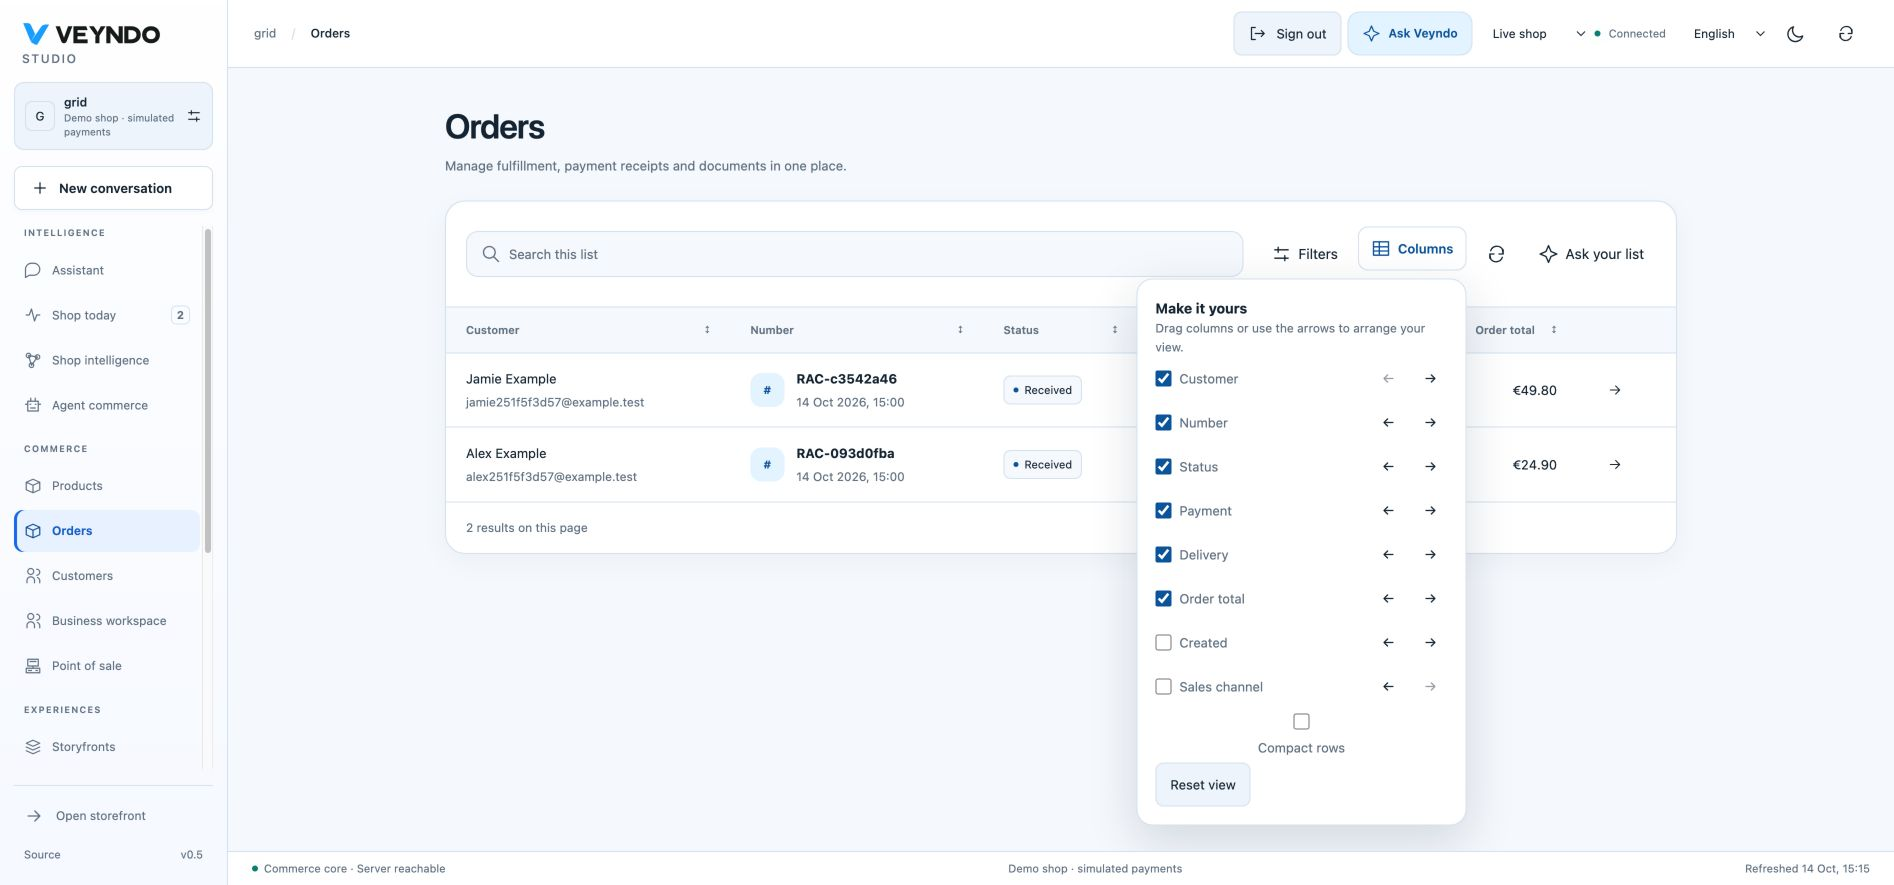
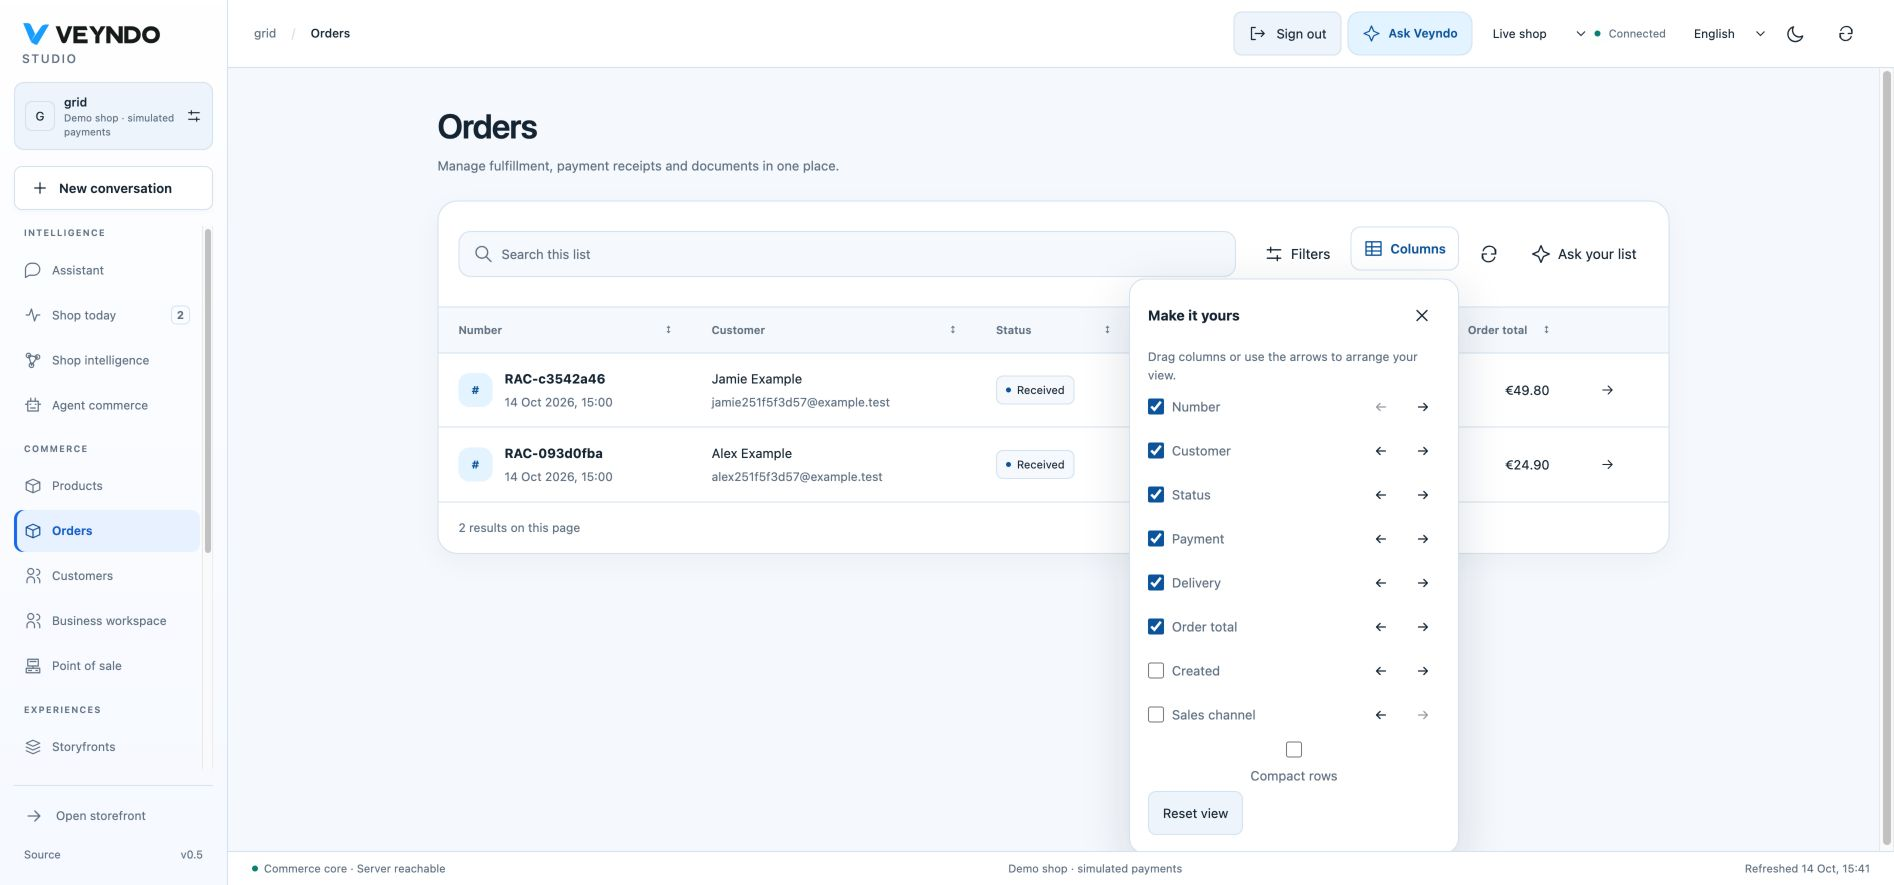
Polish grid controls and document verified native workflows

diff --git a/frontend/tests/unit/agentic-grid.test.tsx b/frontend/tests/unit/agentic-grid.test.tsx
@@ -4,6 +4,7 @@ import { render, screen, waitFor, fireEvent } from "@testing-library/react";
 import userEvent from "@testing-library/user-event";
 import { beforeEach, expect, it, vi } from "vitest";
 import AgenticGrid from "../../src/shared/grid/AgenticGrid";
+import CustomerDirectory from "../../src/admin/customers/CustomerDirectory";
 import { useGridPage } from "../../src/shared/grid/useGridPage";
 import { LocaleProvider } from "../../src/shared/i18n/i18n";
 import type { GridCriteria } from "../../src/shared/grid/types";
@@ -81,6 +82,24 @@ it("supports drag headers without changing search criteria", () => {
   expect(screen.getAllByRole("columnheader")[0]).toHaveTextContent("Number");
   expect(screen.getByTestId("criteria")).toHaveTextContent("{}");
 });
+it("closes column controls explicitly, on Escape and outside without hiding a column", async () => {
+  const user = userEvent.setup();
+  render(<Demo />, { wrapper: LocaleProvider });
+  const trigger = screen.getByText("Columns", { selector: "summary" });
+  const menu = trigger.closest("details")!;
+  await user.click(trigger);
+  expect(menu.open).toBe(true);
+  await user.click(screen.getByRole("button", { name: "Close columns" }));
+  expect(menu.open).toBe(false);
+  expect(trigger).toHaveFocus();
+  await user.click(trigger);
+  await user.keyboard("{Escape}");
+  expect(menu.open).toBe(false);
+  await user.click(trigger);
+  await user.click(screen.getByTestId("criteria"));
+  expect(menu.open).toBe(false);
+  expect(screen.getAllByRole("columnheader")).toHaveLength(2);
+});
 it("reviews planner filters before applying and rejects identity fields", async () => {
   const user = userEvent.setup();
   const request = vi
@@ -114,6 +133,22 @@ it("reviews planner filters before applying and rejects identity fields", async 
 it("does not offer AI without its current right", () => {
   render(<Demo enabled={false} />, { wrapper: LocaleProvider });
   expect(screen.queryByRole("button", { name: "Ask your list" })).toBeNull();
+});
+it("renders the customer group with the native translated vocabulary", async () => {
+  const request = vi.fn().mockResolvedValue({ elements: [] });
+  render(
+    <CustomerDirectory
+      request={request}
+      groups={[]}
+      groupName={(id) => id}
+      onOpen={vi.fn()}
+    />,
+    { wrapper: LocaleProvider },
+  );
+  expect(
+    screen.getByRole("columnheader", { name: "Customer group" }),
+  ).toBeVisible();
+  await waitFor(() => expect(request).toHaveBeenCalled());
 });
 it("clears rows on errors and ignores a superseded response", async () => {
   let resolveOld: (v: any) => void = () => {};

diff --git a/frontend/src/shared/grid/GridColumns.tsx b/frontend/src/shared/grid/GridColumns.tsx
@@ -1,4 +1,5 @@
 /** Accessible column ordering/visibility controls provide keyboard and touch alternatives to drag headers. */
+import { useRef, useEffect } from "react";
 import Icon from "../ui/Icon";
 import { useGridText } from "./grid-i18n";
 import { moveColumn, type GridLayout } from "./preferences";
@@ -14,14 +15,47 @@ export default function GridColumns({
   onReset: () => void;
 }) {
   const { g } = useGridText();
+  const ref = useRef<HTMLDetailsElement>(null);
+  const close = (focus = false) => {
+    if (ref.current) {
+      ref.current.open = false;
+      if (focus) ref.current.querySelector("summary")?.focus();
+    }
+  };
+  useEffect(() => {
+    const outside = (e: PointerEvent) => {
+      if (ref.current?.open && !ref.current.contains(e.target as Node)) close();
+    };
+    document.addEventListener("pointerdown", outside);
+    return () => document.removeEventListener("pointerdown", outside);
+  }, []);
+
   return (
-    <details className="agent-grid-column-menu">
+    <details
+      ref={ref}
+      className="agent-grid-column-menu"
+      onKeyDown={(e) => {
+        if (e.key === "Escape") {
+          e.stopPropagation();
+          close(true);
+        }
+      }}
+    >
       <summary>
         <Icon name="table" />
         {g("columns")}
       </summary>
       <div className="agent-grid-column-panel">
-        <strong>{g("customize")}</strong>
+        <div className="agent-grid-popover-heading">
+          <strong>{g("customize")}</strong>
+          <button
+            type="button"
+            aria-label={g("closeColumns")}
+            onClick={() => close(true)}
+          >
+            <Icon name="close" />
+          </button>
+        </div>
         <p>{g("columnsHint")}</p>
         {layout.order.map((id, i) => {
           const column = columns.find((c) => c.id === id);

diff --git a/frontend/src/admin/customers/CustomerDirectory.tsx b/frontend/src/admin/customers/CustomerDirectory.tsx
@@ -5,7 +5,6 @@ import { useGridPage } from "../../shared/grid/useGridPage";
 import { useGridAccess } from "../../shared/grid/useGridAccess";
 import { useGridText } from "../../shared/grid/grid-i18n";
 import { useOperationsText } from "../../shared/i18n/operations-i18n";
-import { useCustomerText } from "../../shared/i18n/customer-i18n";
 import type { RequestFn } from "../shell/studio-types";
 export default function CustomerDirectory({
   request,
@@ -21,7 +20,6 @@ export default function CustomerDirectory({
   onOpen: (email: string) => void;
 }) {
   const { o } = useOperationsText(),
-    { c } = useCustomerText(),
     { g, locale } = useGridText();
   const page = useGridPage(request, "/api/merchant/customers", {}, queryState),
     rights = useGridAccess(request);
@@ -59,7 +57,7 @@ export default function CustomerDirectory({
         },
         {
           key: "group",
-          label: c("customerGroup"),
+          label: o("group"),
           options: groups.map((g) => ({ value: g.id, label: groupName(g.id) })),
         },
       ]}
@@ -100,7 +98,7 @@ export default function CustomerDirectory({
         },
         {
           id: "group",
-          label: c("customerGroup"),
+          label: o("group"),
           render: (r) => (
             <span className="agent-grid-tag">
               {r.guest ? g("guest") : groupName(r.customerGroup)}

diff --git a/frontend/src/shared/grid/GridAgent.tsx b/frontend/src/shared/grid/GridAgent.tsx
@@ -21,6 +21,7 @@ export default function GridAgent({
     [error, setError] = useState("");
   const [plan, setPlan] = useState<GridCriteria | null>(null);
   const generation = useRef(0);
+  const host = useRef<HTMLDivElement>(null);
   useEffect(
     () => () => {
       generation.current++;
@@ -34,9 +35,17 @@ export default function GridAgent({
     setPlan(null);
     setError("");
   };
+  useEffect(() => {
+    if (!open) return;
+    const outside = (e: PointerEvent) => {
+      if (host.current && !host.current.contains(e.target as Node)) close();
+    };
+    document.addEventListener("pointerdown", outside);
+    return () => document.removeEventListener("pointerdown", outside);
+  }, [open]);
   if (!agent.enabled) return null;
   return (
-    <div className="agent-grid-assistant">
+    <div ref={host} className="agent-grid-assistant">
       <button
         type="button"
         className="agent-grid-ask"
@@ -56,6 +65,12 @@ export default function GridAgent({
             }
           }}
         >
+          <div className="agent-grid-popover-heading">
+            <strong>{g("agent")}</strong>
+            <button type="button" aria-label={g("cancel")} onClick={close}>
+              <Icon name="close" />
+            </button>
+          </div>
           <form
             onSubmit={async (e) => {
               e.preventDefault();

diff --git a/frontend/src/shared/grid/grid-controls.css b/frontend/src/shared/grid/grid-controls.css
@@ -181,3 +181,21 @@
     min-height: 44px;
   }
 }
+
+.agent-grid-popover-heading {
+  display: flex;
+  align-items: center;
+  justify-content: space-between;
+  gap: 12px;
+  margin-bottom: 14px;
+}
+.agent-grid-popover-heading button {
+  display: grid;
+  place-items: center;
+  min-width: 36px;
+  min-height: 36px;
+  border: 1px solid var(--grid-line);
+  border-radius: 9px;
+  background: var(--surface);
+  color: inherit;
+}

diff --git a/frontend/src/shared/grid/grid-i18n.ts b/frontend/src/shared/grid/grid-i18n.ts
@@ -1,6 +1,12 @@
 /** Typed four-language shared grid vocabulary; commerce content keeps its existing inheritance contract. */
 import { useLocale } from "../i18n/i18n";
 const words = {
+  closeColumns: [
+    "Close columns",
+    "Spalten schließen",
+    "Fermer les colonnes",
+    "Cerrar columnas",
+  ],
   countOne: [
     "1 result on this page",
     "1 Ergebnis auf dieser Seite",

diff --git a/src/operations/grid_schema.rs b/src/operations/grid_schema.rs
@@ -109,6 +109,7 @@ mod tests {
         );
         assert!(validate("customers", &json!({"guest":true})).is_ok());
         assert!(validate("products", &json!({"active":true,"lowStock":true})).is_ok());
+        assert!(validate("products", &json!({"lowStock":false})).is_err());
         assert!(validate("customers", &json!({"state":"placed"})).is_err());
         assert!(validate("orders", &json!({"from":"not-a-date"})).is_err());
     }

diff --git a/docs/agentic-grids.md b/docs/agentic-grids.md
@@ -4,6 +4,8 @@ Orders, products and customers now share one grid instead of separate fixed list
 People and agents use the same native filter/sort contract. The grid never owns
 prices, customer identity, order states or a second database.
 
+![Actual shared order grid in English with synthetic checkout-created orders](assets/agentic-grid/orders-en.png)
+
 ## Use the list
 
 1. Open **Orders**, **Products** or **Customers** in Studio. Search runs on the
@@ -25,6 +27,8 @@ Column layout/density is a device preference scoped by origin/shop/sandbox and
 list ID. It contains column IDs only, not records, credentials, business configuration
 or release units. This is deliberately distinct from entity history and staging.
 
+![Column visibility, ordering arrows, compact rows and explicit close control](assets/agentic-grid/columns-en.png)
+
 ## Ask your list
 
 With `assistant.use` and the list's current domain rights, open **Ask your list**:
@@ -42,6 +46,12 @@ The model returns typed filter suggestions. Studio shows them for review and
 **Apply filters** issues an ordinary native list read. Unsupported constraints must
 be reported instead of silently dropped. Invalid fields/types/dates/sort keys are
 rejected. Provider failure leaves manual search/filtering available.
+
+![A read-only customer filter is reviewed before applying it to the order list](assets/agentic-grid/ai-preview-en.png)
+
+These are real browser captures using synthetic records and a loopback model
+fixture. They demonstrate the UI, native API and review path; they do not measure
+the semantic quality of a live AI provider. [Capture provenance](assets/agentic-grid/README.md).
 
 The customer filter matches text in the immutable order customer snapshot (name/email)
 and legacy contact fields; it does not claim to disambiguate people with identical
@@ -99,6 +109,17 @@ Domain directories supply columns, allowed filters, existing request functions a
 native navigation. New entity directories must reuse it rather than copying a list.
 Bundled controls are translated into EN/DE/FR/ES. Merchant content and app labels keep
 their existing main-language inheritance.
+
+![Product category filtering in the same grid](assets/agentic-grid/products-en.png)
+
+![Customer directory using the same controls and translated group labels](assets/agentic-grid/customers-en.png)
+
+The table scrolls inside its container on narrow screens; it does not expand the
+whole page. Column ordering has keyboard and touch controls, and popovers support
+an explicit close action, Escape and outside clicks. Compare the actual
+[mobile order list](assets/agentic-grid/orders-mobile-en.png),
+[mobile column controls](assets/agentic-grid/mobile-columns-en.png) and
+[dark appearance](assets/agentic-grid/orders-dark-en.png).
 
 Declarative app table blocks also reuse the column/density/expanded-row shell and
 retain their native inline forms and current app actions. Their existing indexed

diff --git a/docs/testing.md b/docs/testing.md
@@ -2,6 +2,35 @@
 
 **Studio setup and access:** [Channel wizard fixes, reusable roles, current grants, central B2B configuration and guided company creation](studio-access-and-setup.md).
 
+## Agentic directory grids — 14 October 2026
+
+[Guide and actual browser captures](agentic-grids.md). The complete local frontend
+run passes **493 tests in 88 files**. V8 coverage measures **64.59% lines, 63.30%
+statements, 57.21% branches and 52.29% functions** across the declared host and
+trusted app scope. These are measured figures, not 100% coverage. All **243 Rust
+unit tests**, format/all-target Clippy, source/route inventory and four-language
+gates pass.
+
+Seven affected real PostgreSQL/HTTP/provider suites pass: `workspace_roles`,
+`merchant_operations`, `catalog_management`, `customer_accounts`, `grid_directory`,
+`tenant_isolation` and `read_performance`. Grid counterexamples check whole-directory
+filters and sorting, localized product-name order, tuple cursors, SQL-looking text,
+current role/PII denial, foreign tenants/cursors, empty operational staging,
+invalid model fields and provider failure. HTTP and MCP return the same native rows.
+Fixtures create customers/orders through native Store API, use isolated databases
+and a loopback model; no live payment, real customer or paid model call is made.
+
+Chrome acceptance verifies reviewed customer filtering, order detail/return with
+criteria retained, category/customer-group filters, persisted column ordering,
+explicit/keyboard popup close, dark appearance and a 390 × 844 viewport without
+page overflow. App table forms preserve existing actions and use the same layout
+shell. This does not establish arbitrary app full-text/model support or live-model
+semantic quality. The existing **54-policy / 156,657-case** formal gate passes with
+zero mismatches and **155** rejected mutations; the grid's SQL, async code and UI
+are reviewed/tested adapters, not new whole-system proofs.
+The rendered site checks **211 pages**, all **204 Markdown sources** and **5,031
+local links/assets**, including the illustrated guide and capture provenance.
+
 ## System consistency audit — 14 October 2026
 
 [Full findings and boundaries](system-consistency-audit.md). Thirteen selected

diff --git a/CHANGELOG.md b/CHANGELOG.md
@@ -1,14 +1,5 @@
 # Changelog
 
-## System consistency and narrow-role boundaries — 14 October 2026
-
-- Use knowledge scopes for source-document stage diffs/publication, protecting
-  private source changes from catalog-only readers and enabling knowledge-only editors.
-- Align automation import HTTP rights and MCP discovery with native scopes;
-  write-only roles need no unrelated reads and channel roles cannot invoke rule writes.
-- Add real HTTP/MCP/PostgreSQL regressions and an audit separating connected
-  foundations from incomplete history, Storyfront, AI and release scope.
-- Correct outdated group, event, scope, SKU/SEO and shipping documentation.
 ## Shared agentic Studio grids — 14 October 2026
 
 - Replace fixed order/product/customer lists with one configurable grid: draggable
@@ -18,8 +9,18 @@
   HTTP/MCP contract, with current domain/PII rights and replica-wide admission.
 - Reuse the visual shell in declarative app tables, preserving native write forms.
 - Add real isolated Store API/PostgreSQL/model wire regressions and translated controls.
+- Add illustrated usage/ownership documentation, touch-safe popovers, false-valued
+  filter chips and an always-accessible details action when the main column is hidden.
 
+## System consistency and narrow-role boundaries — 14 October 2026
 
+- Use knowledge scopes for source-document stage diffs/publication, protecting
+  private source changes from catalog-only readers and enabling knowledge-only editors.
+- Align automation import HTTP rights and MCP discovery with native scopes;
+  write-only roles need no unrelated reads and channel roles cannot invoke rule writes.
+- Add real HTTP/MCP/PostgreSQL regressions and an audit separating connected
+  foundations from incomplete history, Storyfront, AI and release scope.
+- Correct outdated group, event, scope, SKU/SEO and shipping documentation.
 ## Shopware-blue Veyndo identity — 14 October 2026
 
 - Replace the lime logo/favicon/README artwork with #189EFF and share one blue UI palette.

diff --git a/docs/source-map.md b/docs/source-map.md
@@ -378,7 +378,7 @@ no model or external delivery provider. The exact current source inventory is
 
 | File/group | Responsibility | Regression evidence |
 |---|---|---|
-| `commerce/product_admin.rs`, `product_admin.sql`, `product_channels.rs`, `product_edit.rs`, `product_fields.rs` | Bounded merchant queries, product/variant creation, atomic revision saves, inventory/pricing and category/channel assignments | `catalog_management.py`, `commerce.py`, `merchant_operations.py`, frontend catalog-management tests |
+| `commerce/product_admin.rs`, `product_channels.rs`, `product_edit.rs`, `product_fields.rs` | Bounded merchant queries, product/variant creation, atomic revision saves, inventory/pricing and category/channel assignments | `catalog_management.py`, `commerce.py`, `merchant_operations.py`, frontend catalog-management tests |
 | `categories/{mod,admin,navigation}.rs`, `listing.sql`, migrations 026/027 | Tenant-safe translated tree, navigation roots, membership, nested product listings, indexed search | Rust validation tests; real category/cycle/visibility/locale/channel HTTP tests |
 | `assets/rich_document.rs`, shared `rich-document.tsx`, admin `RichEditor.tsx` | Safe structured WYSIWYG admission and storefront rendering | Rust unsafe-content negatives, actual React renderer tests, browser save/reload |
 | `admin/catalog/{ProductDataView,ProductEditor,ProductPanels,ProductMediaWorkspace,MediaDropzone,AiImageStudio,ProductVariants,RelatedProducts,CategoriesWorkspace}.tsx` | One list/create/detail workspace, gallery/SKU/category workflows | Strict build, architecture constraints, unit tests and real synthetic browser creation |

diff --git a/docs/assets/agentic-grid/README.md b/docs/assets/agentic-grid/README.md
@@ -1,0 +1,26 @@
+# Agentic grid captures
+
+Captured in Chrome on 14 October 2026 from the actual local Veyndo frontend and
+Rust API, using `scripts/grid_directory.py`'s isolated PostgreSQL review fixture.
+All names, email addresses and orders shown are synthetic; no merchant password,
+session token or real customer information is present.
+
+The order records were created through Store API checkout. The AI preview uses a
+loopback model fixture behind the real central model adapter and Rust planning
+route, not a live paid provider. Screenshots are not a performance measurement or
+a claim that every natural-language request is understood by a particular model.
+
+| File | Demonstrated state |
+|---|---|
+| `orders-en.png` | Shared native order directory, light appearance |
+| `columns-en.png` | Select/reorder columns, density and close control |
+| `ai-preview-en.png` | Explicit filter review before native execution |
+| `orders-dark-en.png` | Same directory in dark appearance |
+| `orders-mobile-en.png` | Applied customer filter at 390 × 844 |
+| `mobile-columns-en.png` | Contained touch controls at 390 × 844 |
+| `products-en.png` | Native category filter over products |
+| `customers-en.png` | Registered customer directory and translated group label |
+
+The temporary viewport override was reset after capture. The isolated review
+database is disposable. Recreate it with `GRID_REVIEW_HOLD=1` when new captures
+are needed; never use production customer data or expose its private fixture file.
